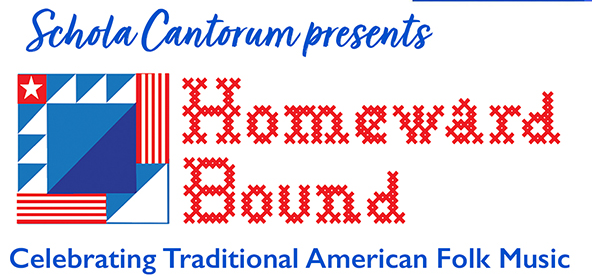
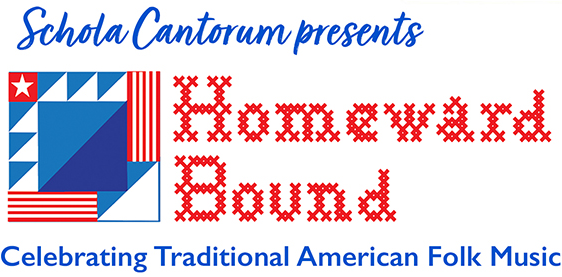
Add Homeward Bound image

diff --git a/home/index.md b/home/index.md
@@ -4,21 +4,19 @@ title:Homeward Bound: An evening of American Folksong
 weight: 1
 ---
 
-{{% imgfloatleft "image.jpg" "rich-martello-ti4pYgfDmis-unsplash.jpg" %}}
+{{% imgfullwidth "homeward.png" "Homeward Bound" %}}
 
-**Offered virtually on Saturday May 22, at 7:30pm PT on YouTube.com/ScholaCantorum1**
-
-
+**Offered virtually on Saturday May 22, at 7:30pm PT on [YouTube.com/ScholaCantorum1](https://youtube.com/scholacantorum1)**
 
 **_Stay tuned for our next offering, Homeward Bound, a collection of American folk songs._**
-Join us online for a program of lovely and inspiring American Folk Music filled with anticipation and hope for the future. Selections will include: 
- 
+Join us online for a program of lovely and inspiring American Folk Music filled with anticipation and hope for the future. Selections will include:
+
 Hark, I hear the harps eternal<br>
 [Shenandoah](https://en.wikipedia.org/wiki/Oh_Shenandoah)<br>
 [Down to the River to Pray](https://en.wikipedia.org/wiki/Down_in_the_River_to_Pray)<br>
 [Man of Constant Sorrow](https://en.wikipedia.org/wiki/Man_of_Constant_Sorrow)<br>
 [Bring me little water, Silvy](http://www.debisimons.com/bring-me-a-little-water-sylvie/)<br>
-[Cindy](https://en.wikipedia.org/wiki/Cindy_(folk_song))<br>
+[Cindy](<https://en.wikipedia.org/wiki/Cindy_(folk_song)>)<br>
 More songs sung by members of Schola and special guests
- 
+
 As with our other concerts from this past year, Homeward Bound will remain available AFTER the performance date, for viewing on our YouTube channel, along with content from [Virtually Elijah](https://youtu.be/mbdE2IhkWwY) and our holiday concert, [Schola Around the World.](https://youtu.be/6NW1lALW6as)
